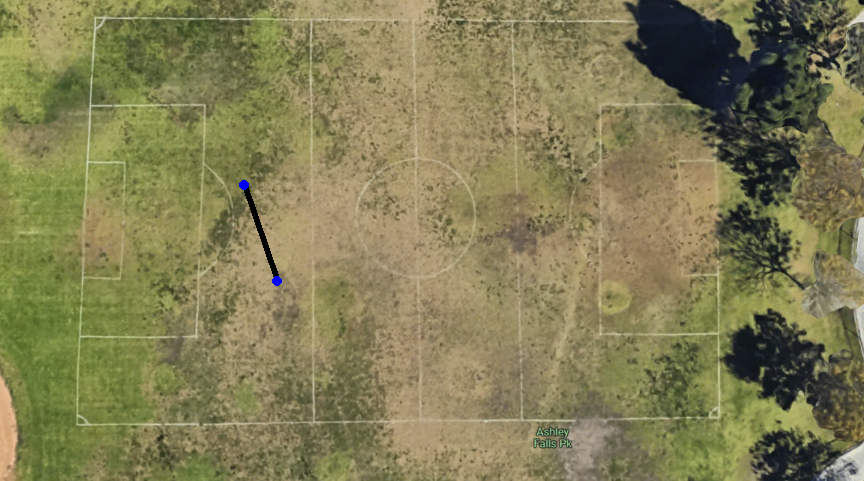
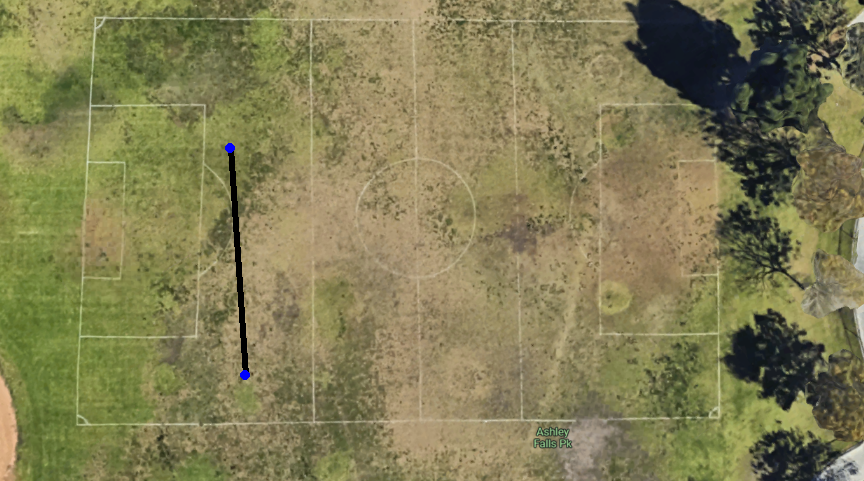
s

Changed region(s): [[0.25, 0.2807, 0.3125, 0.6861], [0.2812, 0.6861, 0.3125, 0.7796], [0.3125, 0.5301, 0.3438, 0.5925]]

diff --git a/mappingtest.py b/mappingtest.py
@@ -186,7 +186,6 @@ def drawPoints(screen, points, droneimg, yaw):
     y_cord  = (int)((screen_height  - points[-1][1])/sizeCoeff)
     position_text = font.render(f'({x_cord}, {y_cord})cm', True, (255, 0, 0))
     screen.blit(position_text, (points[-1][0] + 10, points[-1][1] + 10))
-
 background = Background('pathPlanned2.png', [0, 0], 1)
 x,y = 0, 0 # origin
 
@@ -210,7 +209,7 @@ drone1current_pos = list(start_pos1)
 drone1previous_pos = drone1current_pos.copy()
 
 linearSpeed = 500
-angularSpeed = 50
+angularSpeed = 500
 
 timeDur = distanceInCm/linearSpeed
 rotationDur = angle/angularSpeed
@@ -219,12 +218,12 @@ timeDur2 = distanceInCm2/linearSpeed
 rotationDur2 = angle2/angularSpeed
 
 drone1num_steps = int(timeDur / updateTime)
-drone1angle_num_steps = int(rotationDur / angleUpdateTime)
+drone1angle_num_steps = abs(int(rotationDur / angleUpdateTime))
 
 drone2current_pos = list(start_pos2)
 drone2previous_pos= drone2current_pos.copy()
 drone2num_steps = int(timeDur2 / updateTime)
-drone2angle_num_steps = int(rotationDur2 / angleUpdateTime)
+drone2angle_num_steps = abs(int(rotationDur2 / angleUpdateTime))
 
 
 # Calculate the increments in x and y directions
@@ -234,9 +233,9 @@ dy1 = (end_pos1[1] - start_pos1[1]) / drone1num_steps
 dx2 = (end_pos2[0] - start_pos2[0]) / drone2num_steps
 dy2 = (end_pos2[1] - start_pos2[1]) / drone2num_steps
 
-initial_yaw = 0  # Initial yaw angle in degrees
-target_yaw1 = map1.get_angle(path[0], personpospx, (path[0][0]+10, path[0][1]))
-target_yaw2 = map2.get_angle(path2[0], personpospx, (path2[0][0]+10, path2[0][1]))
+initial_yaw = 0  # Initial yaw angle in 
+target_yaw1 = map1.get_angle(path[0], personpospx, (path[0][0], path[0][1]+10))
+target_yaw2 = map2.get_angle(path2[0], personpospx, (path2[0][0], path2[0][1]+10))
 print(target_yaw1)
 print(target_yaw2)
 
@@ -248,12 +247,16 @@ drone2points.append(drone2current_pos)
 drawPoints(screen, drone1points, drone1Img, yaw1)
 drawPoints(screen, drone2points, drone2Img, yaw2)
 
+#MOVES THE DRONES
+#drone_thread = threading.Thread(target=move_tello, args={distanceInCm, distanceInCm2, angle, angle2})
+#drone_thread.start()
+
 #updates the screen
-screenThread = threading.Thread(target=updateScreen)
-screenThread.start()
 
 #delays for the takeoff time
 running = True
+rotating1 = True
+rotating2 = True
 while running:
     for event in pygame.event.get():
         if event.type == pygame.QUIT:
@@ -261,12 +264,14 @@ while running:
 
     screen.blit(background.image, (0, 0))    
 
-    if yaw1 != target_yaw1:
-        print(yaw1)
-        yaw1 += (abs(target_yaw1) - initial_yaw) / drone1angle_num_steps
-        if abs(yaw1 - target_yaw1) < 0.1:
-            yaw1 = target_yaw1  # Snap to target yaw if close
+    if rotating1:
+        if yaw1 != target_yaw1:
+            yaw1 += (((target_yaw1) - initial_yaw) / drone1angle_num_steps)
+            if abs(yaw1 - target_yaw1) < 0.1:
+                yaw1 = target_yaw1  # Snap to target yaw if close
+                rotating1 = False
     else:
+        yaw1 = map1.get_angle(drone1current_pos, personpospx, (drone1current_pos[0], drone1current_pos[1]+10))
         if step1 <= drone1num_steps:
             previous_pos1 = drone1current_pos.copy()
             drone1current_pos[0] += dx1
@@ -276,12 +281,16 @@ while running:
             drone1points.append((int(drone1current_pos[0]), int(drone1current_pos[1])))
             step1 += 1
 
-
-    if yaw2 != target_yaw2:
-        yaw2 += (abs(target_yaw2) - initial_yaw) / drone2angle_num_steps
-        if abs(yaw2 - target_yaw2) < 0.1:
-            yaw2 = target_yaw2  # Snap to target yaw if close
+    if rotating2:
+        if yaw2 != target_yaw2:
+            yaw2 += ((target_yaw2) - initial_yaw) / drone2angle_num_steps
+            if abs(yaw2 - target_yaw2) < 0.1:
+                yaw2 = target_yaw2  # Snap to target yaw if close
+                rotating2 = False
     else:
+
+        yaw2 = map1.get_angle(drone2current_pos, personpospx, (drone2current_pos[0], drone2current_pos[1]+10))
+
         if step2 <= drone2num_steps:
             previous_pos2 = drone2current_pos.copy()
             drone2current_pos[0] += dx2
@@ -297,6 +306,9 @@ while running:
     pygame.display.update()
     
     pygame.time.delay(int(updateTime*1000))
+
+
+
 
 pygame.quit()
 sys.exit()

diff --git a/main.py b/main.py
@@ -328,12 +328,12 @@ def localize():
     rotationDur2 = angle2/angularSpeed
 
     drone1num_steps = int(timeDur / updateTime)
-    drone1angle_num_steps = int(rotationDur / angleUpdateTime)
+    drone1angle_num_steps = abs(int(rotationDur / angleUpdateTime))
 
     drone2current_pos = list(start_pos2)
     drone2previous_pos= drone2current_pos.copy()
     drone2num_steps = int(timeDur2 / updateTime)
-    drone2angle_num_steps = int(rotationDur2 / angleUpdateTime)
+    drone2angle_num_steps = abs(int(rotationDur2 / angleUpdateTime))
 
 
     # Calculate the increments in x and y directions
@@ -343,9 +343,9 @@ def localize():
     dx2 = (end_pos2[0] - start_pos2[0]) / drone2num_steps
     dy2 = (end_pos2[1] - start_pos2[1]) / drone2num_steps
 
-    initial_yaw = 0  # Initial yaw angle in degrees
-    target_yaw1 = -(math.atan2(path[1][1] - personpospx[1], path[1][0] - personpospx[0])) * math.pi/180 # Target yaw angle in degrees (can be adjusted)
-    target_yaw2 = -(math.atan2(path2[1][1] - personpospx[1], path2[1][0] - personpospx[0]))* math.pi/180
+    initial_yaw = 0  # Initial yaw angle in 
+    target_yaw1 = map1.get_angle(path[0], personpospx, (path[0][0], path[0][1]+10))
+    target_yaw2 = map2.get_angle(path2[0], personpospx, (path2[0][0], path2[0][1]+10))
     print(target_yaw1)
     print(target_yaw2)
 
@@ -364,8 +364,10 @@ def localize():
     #updates the screen
    
     #delays for the takeoff time
-    time.sleep(10)
+    time.sleep(5)
     running = True
+    rotating1 = True
+    rotating2 = True
     while running:
         for event in pygame.event.get():
             if event.type == pygame.QUIT:
@@ -373,11 +375,14 @@ def localize():
 
         screen.blit(background.image, (0, 0))    
 
-        if yaw1 != target_yaw1:
-            yaw1 += (abs(target_yaw1) - initial_yaw) / drone1angle_num_steps
-            if abs(yaw1 - target_yaw1) < 0.1:
-                yaw1 = target_yaw1  # Snap to target yaw if close
+        if rotating1:
+            if yaw1 != target_yaw1:
+                yaw1 += (((target_yaw1) - initial_yaw) / drone1angle_num_steps)
+                if abs(yaw1 - target_yaw1) < 0.1:
+                    yaw1 = target_yaw1  # Snap to target yaw if close
+                    rotating1 = False
         else:
+            yaw1 = map1.get_angle(drone1current_pos, personpospx, (drone1current_pos[0], drone1current_pos[1]+10))
             if step1 <= drone1num_steps:
                 previous_pos1 = drone1current_pos.copy()
                 drone1current_pos[0] += dx1
@@ -387,12 +392,16 @@ def localize():
                 drone1points.append((int(drone1current_pos[0]), int(drone1current_pos[1])))
                 step1 += 1
 
-
-        if yaw2 != target_yaw2:
-            yaw2 += (abs(target_yaw2) - initial_yaw) / drone2angle_num_steps
-            if abs(yaw2 - target_yaw2) < 0.1:
-                yaw2 = target_yaw2  # Snap to target yaw if close
+        if rotating2:
+            if yaw2 != target_yaw2:
+                yaw2 += ((target_yaw2) - initial_yaw) / drone2angle_num_steps
+                if abs(yaw2 - target_yaw2) < 0.1:
+                    yaw2 = target_yaw2  # Snap to target yaw if close
+                    rotating2 = False
         else:
+
+            yaw2 = map1.get_angle(drone2current_pos, personpospx, (drone2current_pos[0], drone2current_pos[1]+10))
+
             if step2 <= drone2num_steps:
                 previous_pos2 = drone2current_pos.copy()
                 drone2current_pos[0] += dx2
@@ -407,7 +416,8 @@ def localize():
         drawPoints(screen, drone2points, drone2Img, yaw2)
         pygame.display.update()
         
-        pygame.time.delay(int(updateTime))
+        pygame.time.delay(int(updateTime*1000))
+
 
     pygame.quit()
     sys.exit()
